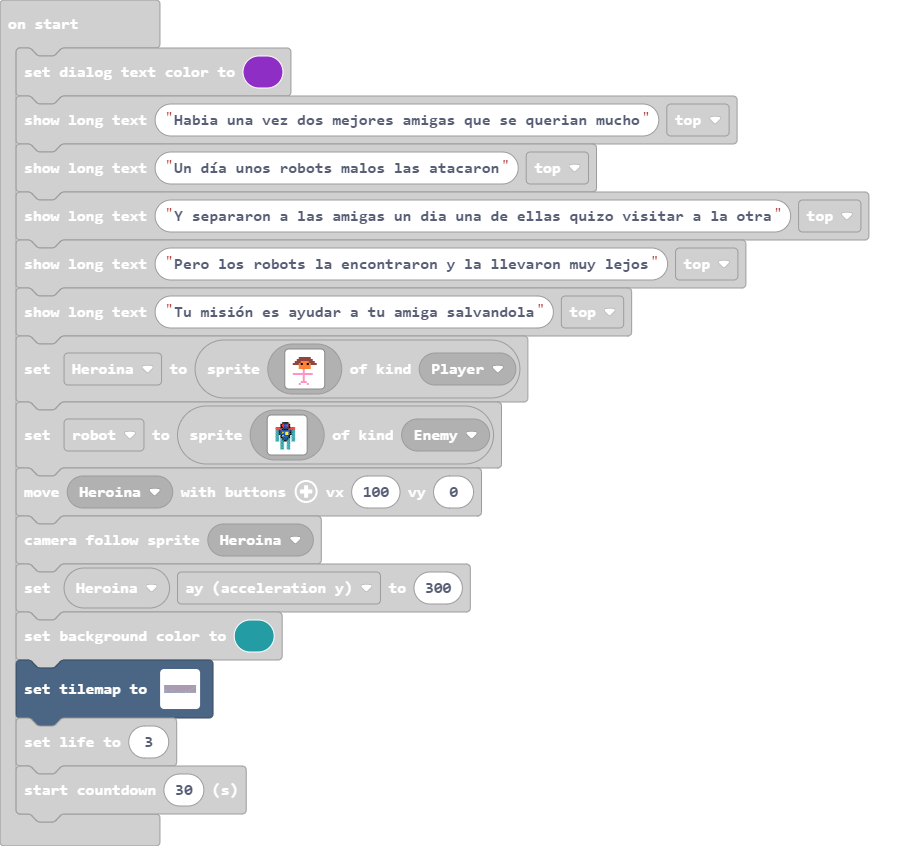
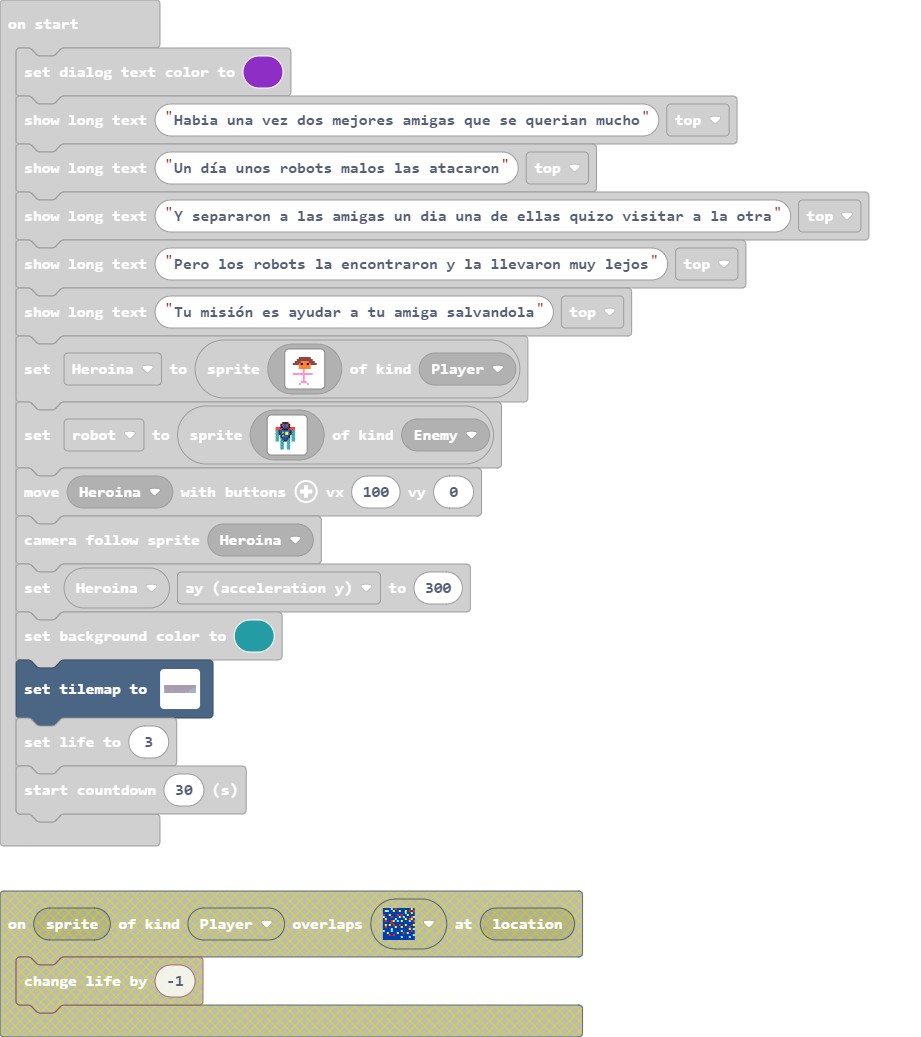
modifique el mapa

diff --git a/main.ts b/main.ts
@@ -24,9 +24,6 @@ controller.B.onEvent(ControllerButtonEvent.Pressed, function () {
         . . . . . . . . . . . . . . . . 
         `, Heroina, 50, 0)
 })
-scene.onOverlapTile(SpriteKind.Player, myTiles.tile4, function (sprite, location) {
-    info.changeLifeBy(-1)
-})
 controller.A.onEvent(ControllerButtonEvent.Pressed, function () {
     if (Heroina.isHittingTile(CollisionDirection.Bottom)) {
         Heroina.vy = -150
@@ -124,23 +121,23 @@ controller.moveSprite(Heroina, 100, 0)
 scene.cameraFollowSprite(Heroina)
 Heroina.ay = 300
 scene.setBackgroundColor(6)
-tiles.setTilemap(tiles.createTilemap(hex`4000100004040404040404040404040404040404040404040404040404040404040404040404040404040404040404040404040404040404040404040404040404040404040404040404040404040404040404040404040404040404040404040404040404040404040404040404040404040404040404040404040404040404040404040404040404040404040404040404040404040404040404040404040404040404040404040404040404040404040404040404040404040404040404040404040404040404040404040404040404040404040404040404040404040404040404040404040404040404040404040404040404040404040404040404040404040404040404040404040404040404040404040404040404040404040404040404040404040404040404040404040404040404040404040404040404040404040404020404040404040404040404040404040404040404040404040404040404040404040404040404040404040404040404040404040404040404040404040101010104040404040404040404040404040404040404040404040404040404040404040404040404040404040404040404040404040404040404040404010104040404040404040404040404040404040404040404040404040404040404040404040404040404040404040404040404040404040404040404040401010404040404040404040404040404040404040404040404040404040404040404040404040404040404040404040404040404040404040404040404040101040404040404040404040404040404040404040404040404040404040404040404040404040404040404040404040404040404040404040404040404010104040404040404040404040404040404040404040404040404040404040404040404040404040404040404040404040404010404040404040404040404010404040404040404040404040101010101010404040404040404010101010101010404040404040404040404040404040404040404040101040404040404010104040404040404040404040404040404040404040404040401040404040404040404040404040404040404040404040404010404040401010404040404010404040404040404040404040404040404040404010404040404040404040404040404040404040404040104010404010401040404040404010104040404040404040404040404040404040404040404040404040404040104040404040404040404040404040404040404040404040404040404040404040101040404040404040404040404040404040404040403030303030303030303030303030303030303030303010101010101030303030303030303030303030301010101010301030301010101010101010101010303`, img`
+tiles.setTilemap(tiles.createTilemap(hex`4000100004040404040404040404040404040404040404040404040404040404040404040404040404040404040404040404040404040404040404040404040404040404040404040404040404040404040404040404040404040404040404040404040404040404040404040404040404040404040404040404040404040404040404040404040404040404040404040404040404040404040404040404040404040404040404040404040404040404040404040404040404040404040404040404040404040404040404040404040404040404040404040404040404040404040404040404040404040404040404040404040404040404040404040404040404040404040404040404040404040404040404040404040404040404040404040404040404040404040404040404040404040404040404040404040404040404040404020404040404040404040404040404040404040404040404040404040404040404040404040404040404040404040404040404040404040404040404040101010104040404040404040404040404040404040404040404040404040404040404040404040404040404040404040404040404040404040404040404010101010101040404040404040404040404040404040404040404040404040404040404040404040404040404040404040404040404040404040404040401010101010101010404040404040404040404040404040404040404040404040404040404040404040404040404040404040404040404040404040404040101010101010101010104040404040404040404040404040404040404040404040404040404040404040404040404040404040404040404040404040404040101010101010101010101040404040404040404040404040404040404040404040404040404040404040404040404040404010404040404040404040404010101010101010101010101010101010101010404040404040404010101010101010404040404040404040404040404040404040404040101040404040404010101010101010101010101010104040404040404040404040401040404040404040404040404040404040404040404040404010404040401010404040404010101010101010101010101010101040404040404010404040404040404040404040404040404040404040104010404010401040404040404010104040404010101010101010101010101010101010404040404040404040104040404040404040404040404040404040404040404040404040404040404040101040404010101010101010101010101010101010103030303030303030303030303030303030303030303010101010101030303030303030303030303030301010101010101010101010101010101010101010101`, img`
     . . . . . . . . . . . . . . . . . . . . . . . . . . . . . . . . . . . . . . . . . . . . . . . . . . . . . . . . . . . . . . . . 
     . . . . . . . . . . . . . . . . . . . . . . . . . . . . . . . . . . . . . . . . . . . . . . . . . . . . . . . . . . . . . . . . 
     . . . . . . . . . . . . . . . . . . . . . . . . . . . . . . . . . . . . . . . . . . . . . . . . . . . . . . . . . . . . . . . . 
     . . . . . . . . . . . . . . . . . . . . . . . . . . . . . . . . . . . . . . . . . . . . . . . . . . . . . . . . . . . . . . . . 
     . . . . . . . . . . . . . . . . . . . . . . . . . . . . . . . . . . . . . . . . . . . . . . . . . . . . . . . . . . . . . . . . 
     . . . . . . . . . . . . . . . . . . . . . . . . . . . . . . . . . . . . . . . . . . . . . . . . . . . . . . . . . . . . 2 2 2 2 
-    . . . . . . . . . . . . . . . . . . . . . . . . . . . . . . . . . . . . . . . . . . . . . . . . . . . . . . . . . . 2 2 . . . . 
-    . . . . . . . . . . . . . . . . . . . . . . . . . . . . . . . . . . . . . . . . . . . . . . . . . . . . . . . . 2 2 . . . . . . 
-    . . . . . . . . . . . . . . . . . . . . . . . . . . . . . . . . . . . . . . . . . . . . . . . . . . . . . . 2 2 . . . . . . . . 
-    . . . . . . . . . . . . . . . . . . . . . . . . . . . . . . . . . . . . . . . . . . . . . . . . . . . . 2 2 . . . . . . . . . . 
-    . . . . . . . . . . . . . . . . . . . . . . . . . . . . . . . . . . . . . . . 2 . . . . . . . . . . . 2 . . . . . . . . . . . . 
-    2 2 2 2 2 2 . . . . . . . . 2 2 2 2 2 2 2 . . . . . . . . . . . . . . . . . . . . . 2 2 . . . . . . 2 2 . . . . . . . . . . . . 
-    . . . . . . . . . . . . 2 . . . . . . . . . . . . . . . . . . . . . . . . 2 . . . . 2 2 . . . . . 2 . . . . . . . . . . . . . . 
-    . . . . . . 2 . . . . . . . . . . . . . . . . . . . . . 2 . 2 . . 2 . 2 . . . . . . 2 2 . . . . . . . . . . . . . . . . . . . . 
-    . . . . . . . . . 2 . . . . . . . . . . . . . . . . . . . . 2 . . . . . . . . . . . 2 2 . . . . . . . . . . . . . . . . . . . . 
-    . . . . . . . . . . . . . . . . . . . . . . 2 2 2 2 2 2 . . . . . . . . . . . . . . 2 2 2 2 2 . 2 . . 2 2 2 2 2 2 2 2 2 2 2 . . 
+    . . . . . . . . . . . . . . . . . . . . . . . . . . . . . . . . . . . . . . . . . . . . . . . . . . . . . . . . . . 2 2 2 2 2 2 
+    . . . . . . . . . . . . . . . . . . . . . . . . . . . . . . . . . . . . . . . . . . . . . . . . . . . . . . . . 2 2 2 2 2 2 2 2 
+    . . . . . . . . . . . . . . . . . . . . . . . . . . . . . . . . . . . . . . . . . . . . . . . . . . . . . . 2 2 2 2 2 2 2 2 2 2 
+    . . . . . . . . . . . . . . . . . . . . . . . . . . . . . . . . . . . . . . . . . . . . . . . . . . . . . 2 2 2 2 2 2 2 2 2 2 2 
+    . . . . . . . . . . . . . . . . . . . . . . . . . . . . . . . . . . . . . . . 2 . . . . . . . . . . . 2 2 2 2 2 2 2 2 2 2 2 2 2 
+    2 2 2 2 2 2 . . . . . . . . 2 2 2 2 2 2 2 . . . . . . . . . . . . . . . . . . . . . 2 2 . . . . . . 2 2 2 2 2 2 2 2 2 2 2 2 2 2 
+    . . . . . . . . . . . . 2 . . . . . . . . . . . . . . . . . . . . . . . . 2 . . . . 2 2 . . . . . 2 2 2 2 2 2 2 2 2 2 2 2 2 2 2 
+    . . . . . . 2 . . . . . . . . . . . . . . . . . . . . . 2 . 2 . . 2 . 2 . . . . . . 2 2 . . . . 2 2 2 2 2 2 2 2 2 2 2 2 2 2 2 2 
+    . . . . . . . . . 2 . . . . . . . . . . . . . . . . . . . . . . . . . . . . . . . . 2 2 . . . 2 2 2 2 2 2 2 2 2 2 2 2 2 2 2 2 2 
+    . . . . . . . . . . . . . . . . . . . . . . 2 2 2 2 2 2 . . . . . . . . . . . . . . 2 2 2 2 2 2 2 2 2 2 2 2 2 2 2 2 2 2 2 2 2 2 
     `, [myTiles.transparency16,sprites.dungeon.greenOuterNorth0,myTiles.tile3,myTiles.tile4,myTiles.tile5], TileScale.Sixteen))
 info.setLife(3)
 info.startCountdown(30)
